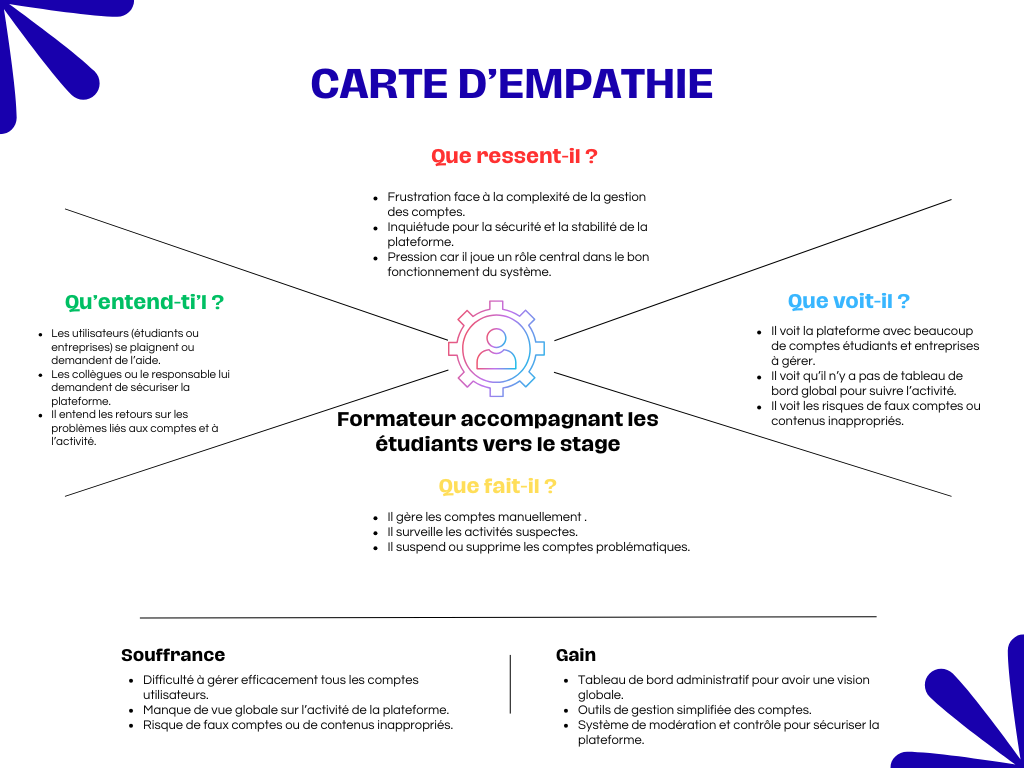
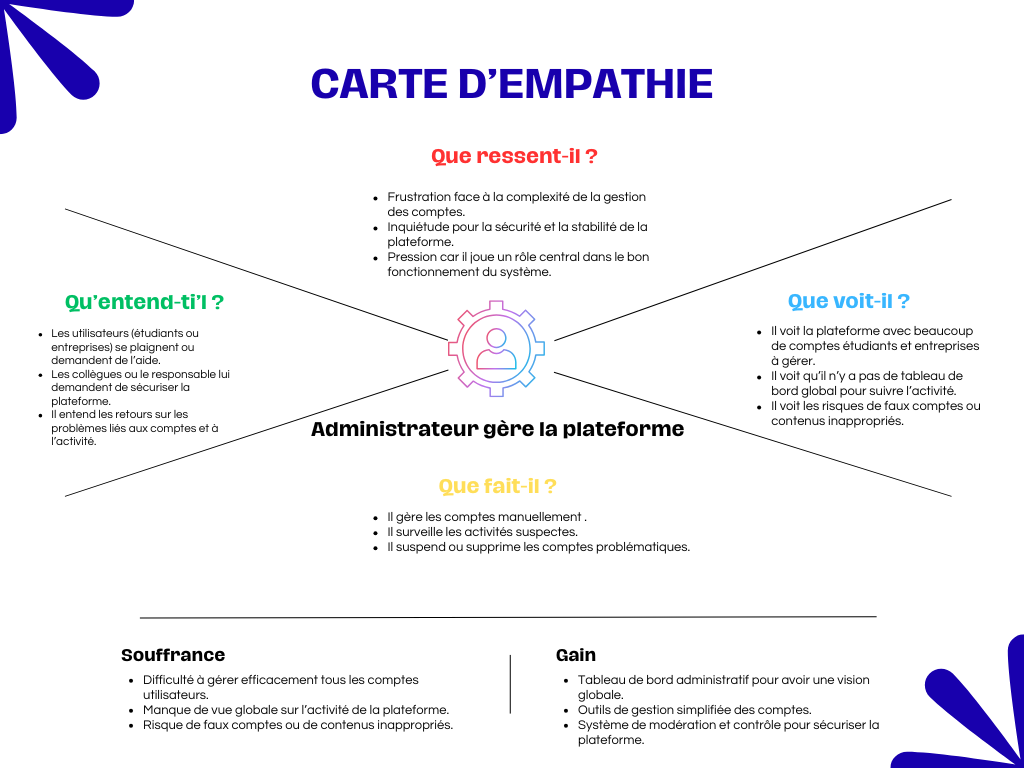
add uses cases diagramms in rapport

Changed region(s): [[0.3125, 0.5312, 0.6562, 0.5938]]

diff --git a/Rapport/README.md b/Rapport/README.md
@@ -57,39 +57,58 @@
 
 # Introduction
 
-Dans un contexte de digitalisation croissante, la gestion efficace des files d’attente est essentielle pour assurer une organisation fluide des entretiens à SoliCode. Une gestion peu structurée peut entraîner un manque de visibilité, des difficultés dans le suivi des candidats et un stress lié à l’attente.  
-
-Pour répondre à ces défis, ce projet propose le développement d’une application de gestion des files d’attente basée sur des tickets numériques, une mise à jour en temps réel et des outils simples pour l’administration.  
-
-L’objectif est d’améliorer l’organisation, de réduire l’incertitude des candidats et d’optimiser la gestion des sessions.  
+La recherche de stage constitue une étape essentielle dans le parcours des étudiants en formation supérieure, permettant de mettre en pratique les compétences acquises et de préparer l’insertion professionnelle. Cependant, de nombreux étudiants rencontrent des difficultés pour trouver des stages adaptés à leur profil, en raison de la dispersion des offres, d’informations souvent incomplètes et d’un suivi des candidatures complexe.
+De leur côté, les entreprises éprouvent des difficultés à gérer efficacement les candidatures et à identifier rapidement les profils correspondant à leurs besoins. Face à ce constat, le projet StageFlow vise à centraliser les offres de stages et à faciliter la mise en relation entre étudiants et entreprises, afin de rendre le processus de recherche et de gestion des stages plus simple, clair et efficace. 
 
 ---
 
 # Contexte de projet
 
-Dans le cadre de ma formation en développement web, nous sommes amenés à réaliser un projet de fin de formation mettant en pratique nos compétences techniques et méthodologiques. Ce projet doit répondre à un besoin concret observé dans notre environnement professionnel.  
-
-En observant l’organisation des entretiens à SoliCode, j’ai constaté certaines difficultés liées à la gestion des files d’attente :  
-
-- Absence de visibilité sur l’ordre de passage  
-- Gestion manuelle des candidats  
-- Manque d’informations en temps réel  
-
-Ces limites peuvent entraîner du stress pour les candidats et compliquer le travail de l’administration.  
-
-Face à cette situation, l’idée de développer une application de gestion des files d’attente est née. Cette solution vise à digitaliser le système de tickets, améliorer la visibilité pour les candidats et offrir à l’administration un outil simple et efficace pour organiser les sessions.  
+Dans le cadre de ma formation en développement web, nous devons réaliser un projet de fin de formation qui reflète nos compétences et répond à un besoin réel. En discutant avec mes collègues et en observant les difficultés rencontrées par les étudiants de mon établissement, j’ai constaté que beaucoup avaient du mal à trouver un stage correspondant à leur profil.
+Les offres étaient dispersées sur plusieurs sites et réseaux sociaux, et il était difficile de suivre l’état des candidatures. Cette situation a inspiré l’idée du projet Stage Flow, une application web visant à centraliser les offres de stages, simplifier la recherche pour les étudiants et faciliter la gestion des candidatures pour les entreprises.
 
 ---
 
 # Objectif de Project
 
-*(À compléter)*  
+.
 
 ---
 
 # Cahier de charge
 
-*(À compléter)*  
+## Description :
+StageFlow est une plateforme web centralisée qui permet aux étudiants de rechercher, consulter et postuler aux offres de stage, et aux entreprises de publier et gérer leurs offres et candidatures facilement.  
+
+## Objectifs principaux
+- Centraliser la recherche et la gestion des stages.  
+- Simplifier la candidature pour les étudiants et le suivi des candidatures.  
+- Permettre aux entreprises de gérer efficacement leurs offres et candidats.  
+- Fournir des statistiques fiables pour améliorer la prise de décision.  
+
+## Utilisateurs et rôles
+1. **Étudiant** : consulter les offres, postuler et suivre ses candidatures.  
+2. **Entreprise / Admin** : publier, modifier, supprimer les offres, examiner les candidatures, suivre les statistiques.  
+
+## Fonctionnalités clés
+- Création de compte et authentification.  
+- Recherche et filtrage des offres par domaine, durée et entreprise.  
+- Suivi des candidatures pour les étudiants.  
+- Gestion complète des offres et candidatures pour les entreprises.  
+- Tableau de bord et statistiques pour les entreprises.  
+- Notifications pour les réponses et nouvelles offres.  
+
+## Contraintes
+- Interface simple et intuitive.  
+- Compatible mobile et ordinateur.  
+- Accès sécurisé selon le rôle utilisateur.  
+
+## Critères de réussite
+- Étudiants capables de trouver et postuler facilement.  
+- Entreprises pouvant gérer leurs offres correctement.  
+- Suivi des candidatures et notifications fonctionnelles.  
+- Statistiques lisibles et précises.  
+- Fonctionnalités des deux sprints implémentées et testées.
 
 ---
 
@@ -98,6 +117,8 @@ Face à cette situation, l’idée de développer une application de gestion des
 ---
 
 # Scrum
+
+![Maquette application](images/scrum.jpg)
 
 La méthodologie Scrum est une méthodologie agile qui permet de gérer un projet de manière flexible et collaborative, en favorisant la livraison progressive de fonctionnalités. Elle repose sur l’itération, la priorisation des tâches et la communication régulière entre les membres de l’équipe.  
 
@@ -108,7 +129,6 @@ Dans le cadre de ce projet, nous avons organisé le travail selon les principes 
 - **Transparence :** Toutes les tâches et objectifs sont visibles par l’équipe.  
 - **Inspection :** Chaque sprint est évalué pour détecter les améliorations possibles.  
 - **Adaptation :** L’équipe ajuste le plan de travail selon les résultats des sprints précédents.  
-![Maquette application](images/scrum.png)
 
 ---
 
@@ -142,14 +162,11 @@ Cette phase consiste à comprendre les objectifs du projet, identifier les acteu
 - **4- Phase de convergence**
  Les deux branches se rejoignent pour lancer le développement, les tests, l’intégration et la livraison.
 
-
-  
-
 ---
 
 # Design Thinking
 
-![Maquette application](images/design-thinking.png) 
+![Maquette application](images/designThinking.png) 
 
 ## Qu’est-ce que le Design Thinking ?
 Le **Design Thinking** est une approche de résolution de problèmes centrée sur l’humain.
@@ -187,99 +204,123 @@ Exemple : « Comment pourrions-nous aider l’utilisateur à… ? »
 # Branche fonctionnelle
 
 ## Carte d'empathie
+**Apprenant :**
 
----
+![Carte d'empathie d'apprenant](images/carte_d'empathie_apprenant.png) 
 
-# Carte d’empathie
+**Entreprise :**
 
-*(À compléter)*  
+![Carte d'empathie d'entreprise](images/carte_d'empathie_entreprise.png) 
+
+**Administrateur :**
+
+![Carte d'empathie d'admin](images/carte_d'empathie_admin.png) 
 
 ---
 
 # Définition de problème
 
-*(À compléter)*  
+# Définition du Problème – StageFlow
+
+Même avec la motivation des étudiants et des entreprises, plusieurs obstacles freinent la gestion efficace des stages. L’analyse met en évidence les difficultés principales suivantes :
+
+**Offres dispersées :** Les stages sont éparpillés sur plusieurs plateformes et réseaux, rendant difficile pour les étudiants d’avoir une vue d’ensemble.  
+
+**Suivi compliqué des candidatures :** Les étudiants n’ont pas de moyen clair pour suivre l’état de leurs candidatures, générant stress et perte de temps.  
+
+**Organisation difficile pour les entreprises :** La réception et le tri des candidatures via emails ou réseaux sociaux sont longs et désordonnés.  
+
+**Manque de visibilité :** Les entreprises disposent de peu d’outils pour analyser les candidatures et obtenir des statistiques fiables.
 
 ---
 
 # Diagramme de cas d’utilisation générale
 
-*(À compléter)*  
+Le diagramme de cas d’utilisation de notre application StageFlow illustre les principales fonctionnalités accessibles aux trois acteurs du système : l’étudiant, l’entreprise et l’administrateur. Il présente les actions disponibles pour chaque rôle, telles que la consultation et la candidature aux offres de stage pour les étudiants, la publication et la gestion des offres et candidatures pour les entreprises, ainsi que la gestion des comptes, le contrôle des offres et la consultation des statistiques pour l’administrateur. Ce diagramme permet de visualiser l’organisation fonctionnelle globale de la plateforme et de comprendre les interactions entre les utilisateurs et le système avant la phase de développement.
+
+![Cas d'utilisation global](images/diagramme_use_case.png) 
 
 ---
 
 # Diagramme de cas d’utilisation Sprint 1
+- Ce premier sprint correspond au MVP de StageFlow.  
+- Il met en place les fonctionnalités essentielles permettant aux étudiants de consulter et postuler aux offres de stage, aux entreprises de publier et gérer leurs offres et candidatures, et à l’administrateur de gérer les comptes utilisateurs de manière sécurisée.
 
-*(À compléter)*  
+![Cas d'utilisation global](images/diagramme_use_case_sprint1.png) 
+
+- Ce sprint établit ainsi le fonctionnement de base de la plateforme avant l’ajout des fonctionnalités avancées.
 
 ---
 
 # Diagramme de cas d’utilisation Sprint 2
+- Ce deuxième sprint introduit les fonctionnalités avancées de StageFlow.  
+- Il améliore l’expérience utilisateur en ajoutant un suivi plus détaillé des candidatures et des notifications pour les étudiants, un tableau de bord avancé et des statistiques pour les entreprises, ainsi que le contrôle des offres publiées et la consultation des statistiques globales pour l’administrateur.
+![Cas d'utilisation global](images/diagramme_use_case_sprint2.png) 
 
-*(À compléter)*  
+- Ce sprint permet ainsi d’optimiser la gestion des stages et d’offrir une vision plus complète et structurée du processus.
 
 ---
 
 # Branche technique
 
-*(À compléter)*  
+. 
 
 ---
 
 # Choix technologiques
 
-*(À compléter)*  
+.
 
 ---
 
 # Architecture de projet
 
-*(À compléter)*  
+.
 
 ---
 
 # Prototype (Fonctionnalités, Classes)
 
-*(À compléter)*  
+.
 
 ---
 
 # Conception
 
-*(À compléter)*  
+.
 
 ---
 
 # Diagramme de classe
 
-*(À compléter)*  
+.
 
 ---
 
 # Maquettes
 
-*(À compléter)*  
+.
 
 ---
 
 # Charte graphique
 
-*(À compléter)*  
+.
 
 ---
 
 # Réalisation
 
-*(À compléter)*  
+.
 
 ---
 
 # Interfaces
 
-*(À compléter)*  
+.
 
 ---
 
 # Conclusion
 
-*(À compléter)*  
+.